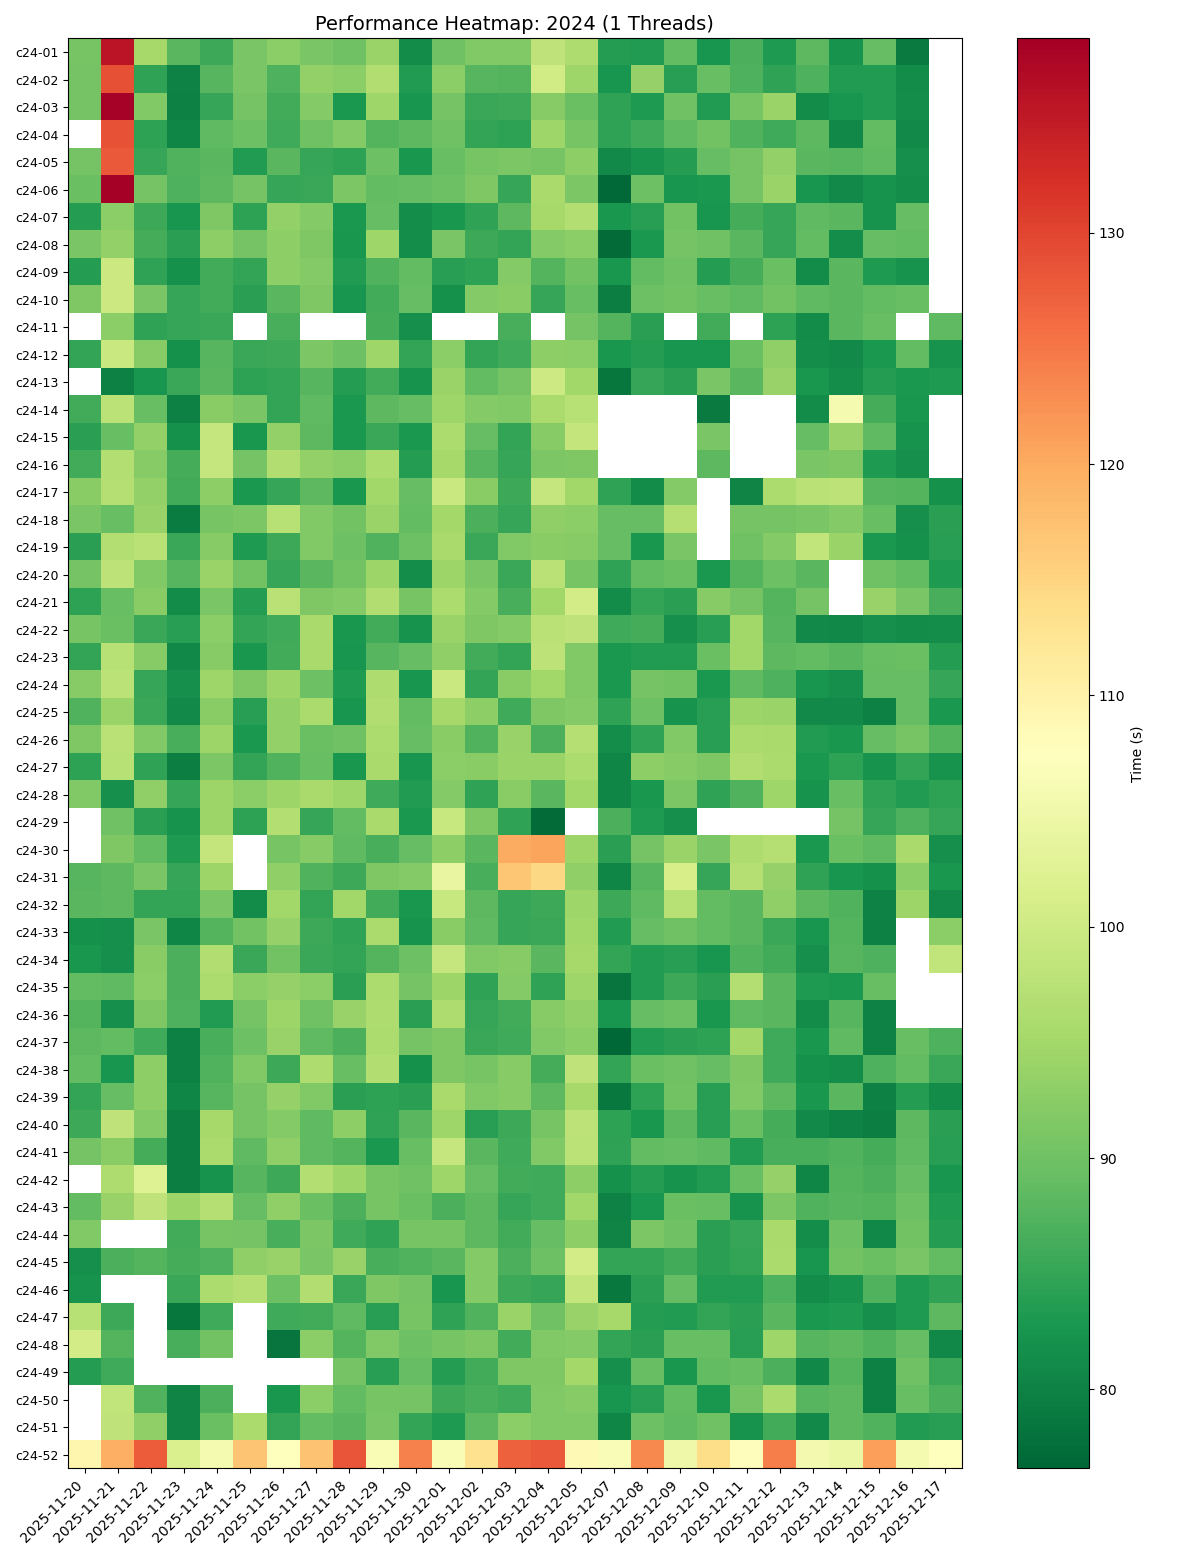
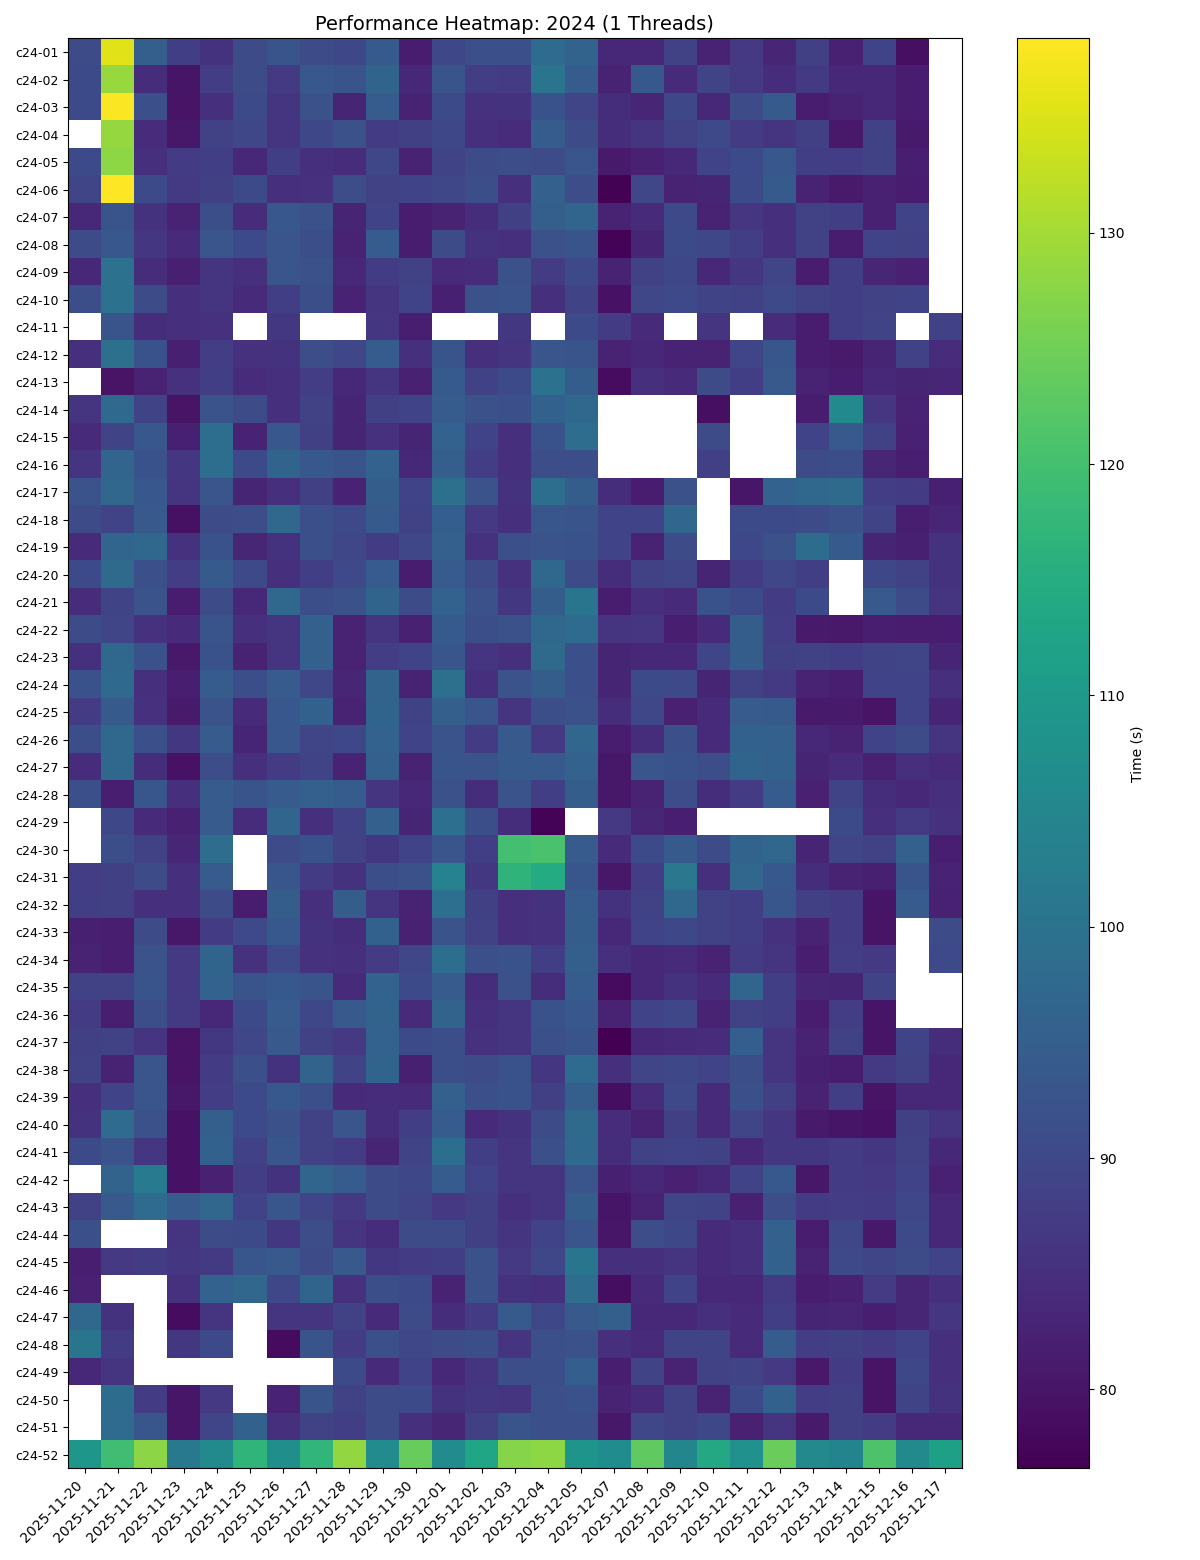
Updated plot_cluster_heatmap.py for anti-color-blindness palettes

diff --git a/clusterAutomation/old_plot_cluster_heatmap.py b/clusterAutomation/old_plot_cluster_heatmap.py
@@ -67,10 +67,8 @@ def generate_heatmap(data, title_label, filename_label):
     
     plt.figure(figsize=(12, fig_height))
     
-    # --- COLOR BLIND FRIENDLY CHANGE ---
-    # Changed cmap from 'RdYlGn_r' to 'viridis'
-    # Viridis: Dark Purple = Low Values (Fast), Yellow = High Values (Slow)
-    plt.imshow(heatmap_data, cmap='viridis', aspect='auto') 
+    # Plot Heatmap (Red=Slow, Green=Fast)
+    plt.imshow(heatmap_data, cmap='RdYlGn_r', aspect='auto') 
 
     # Colorbar
     cbar = plt.colorbar()
